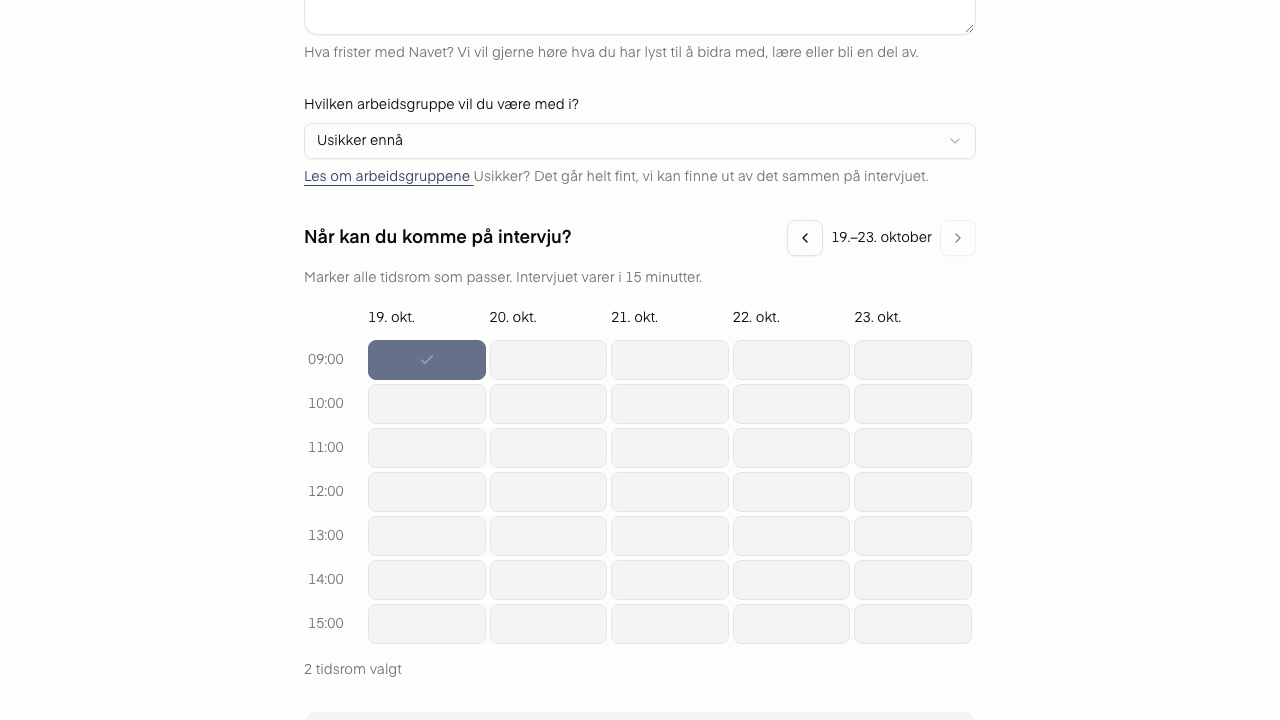
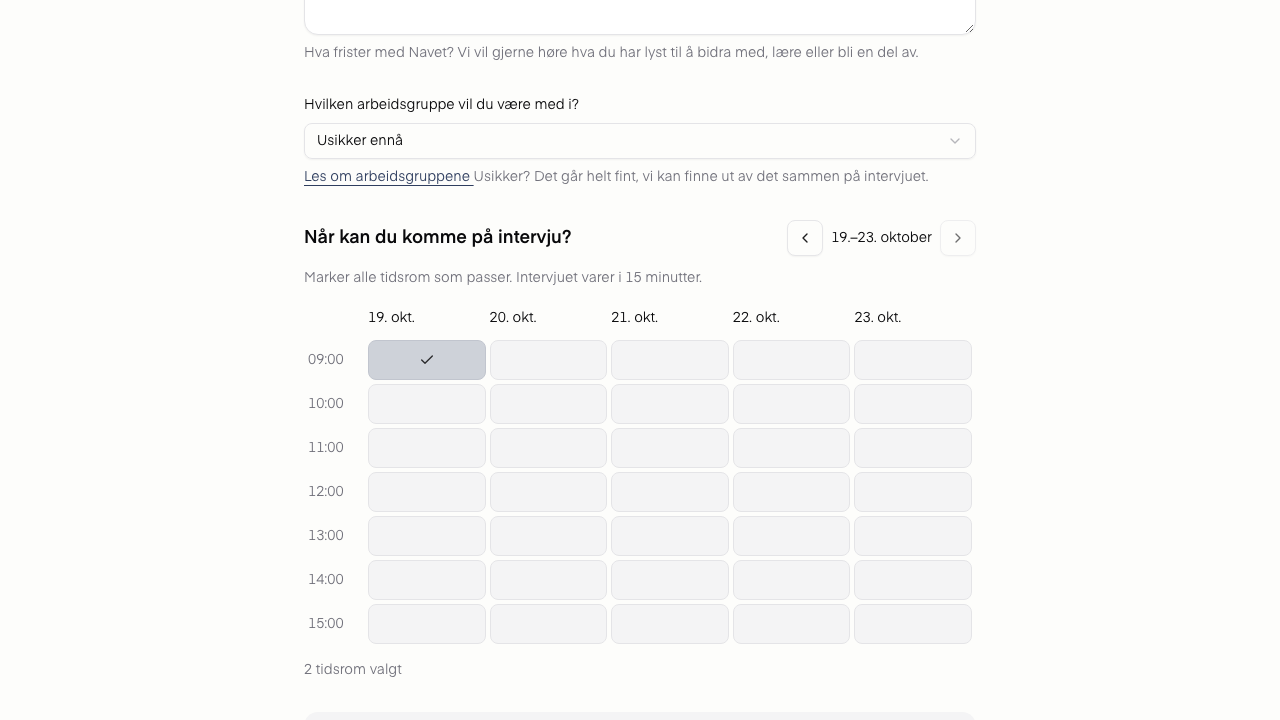
fix: preserve interviewer team size and clarify local preview

Changed region(s): [[0.2812, 0.4583, 0.4062, 0.55]]

diff --git a/e2e/admissions/board-settings.spec.ts b/e2e/admissions/board-settings.spec.ts
@@ -33,16 +33,26 @@ test.describe("admissions settings and close flow", () => {
 		await expect(updated.getByRole("checkbox", { name: "Aksel Nilsen" })).toBeChecked();
 	});
 
-	test("requires exactly two interviewers before saving settings", async ({ page }) => {
+	test("allows teams of three and requires at least two interviewers", async ({ page }) => {
 		await resetAdmissions("open");
 		await page.reload();
 		await page.getByRole("button", { name: "Innstillinger" }).click();
 		const settings = page.getByRole("dialog", { name: "Opptaksinnstillinger" });
 		const save = settings.getByRole("button", { name: "Lagre innstillinger" });
+		await expect(settings.getByRole("checkbox", { name: "Kristin Berg" })).toBeChecked();
+		await expect(settings.getByRole("checkbox", { name: "Daniel Holm" })).toBeChecked();
 		await settings.getByRole("checkbox", { name: "Aksel Nilsen" }).check();
-		await expect(save).toBeDisabled();
-		await settings.getByRole("checkbox", { name: "Daniel Holm" }).uncheck();
 		await expect(save).toBeEnabled();
+		await save.click();
+		await expect(settings).toBeHidden();
+		await page.getByRole("button", { name: "Innstillinger" }).click();
+		const updated = page.getByRole("dialog", { name: "Opptaksinnstillinger" });
+		await expect(updated.getByRole("checkbox", { name: "Aksel Nilsen" })).toBeChecked();
+		await expect(updated.getByRole("checkbox", { name: "Kristin Berg" })).toBeChecked();
+		await expect(updated.getByRole("checkbox", { name: "Daniel Holm" })).toBeChecked();
+		await updated.getByRole("checkbox", { name: "Daniel Holm" }).uncheck();
+		await updated.getByRole("checkbox", { name: "Kristin Berg" }).uncheck();
+		await expect(updated.getByRole("button", { name: "Lagre innstillinger" })).toBeDisabled();
 	});
 
 	test("keeps interviewers assigned to a published future interview", async ({ page }) => {

diff --git a/apps/hugin/src/app/admissions/application-preview.tsx b/apps/hugin/src/app/admissions/application-preview.tsx
@@ -67,7 +67,9 @@ export default function ApplicationPreview() {
 		);
 	return (
 		<div className="mx-auto max-w-2xl py-10 text-left">
-			<p className="mb-6 text-muted-foreground text-xs">Lokalt førsteutkast med testdata</p>
+			<p className="mb-6 text-muted-foreground text-xs">
+				Forhåndsvisning med testdata. Opplysningene blir ikke lagret eller sendt.
+			</p>
 			<h1 className="font-semibold text-3xl tracking-tight">
 				Bli med i Navet <span aria-hidden="true">👋</span>
 			</h1>
@@ -273,13 +275,8 @@ export default function ApplicationPreview() {
 				<div className="rounded-xl bg-muted p-5">
 					<h2 className="mb-3 flex items-center gap-2 font-semibold">
 						<ShieldCheck size={18} />
-						Opplysningene dine
+						Samtykke
 					</h2>
-					<p className="max-w-prose text-sm leading-relaxed">
-						Vi lagrer navn, e-post, studieprogram, studieår, søknadssvar og tilgjengelighet. Bare de
-						som gjennomfører opptaket har tilgang. Opptaksdata slettes når opptaket avsluttes,
-						senest 30. oktober 2026.
-					</p>
 					<form.Field name="consent">
 						{(field) => (
 							<label

diff --git a/e2e/admissions/student.spec.ts b/e2e/admissions/student.spec.ts
@@ -18,7 +18,10 @@ test("student can complete the local application preview", async ({ page }) => {
 		"01-application.png",
 		page.getByRole("heading", { name: "Bli med i Navet" }),
 	);
-	await expect(page.getByText("Lokalt førsteutkast med testdata")).toBeVisible();
+	await expect(
+		page.getByText("Forhåndsvisning med testdata. Opplysningene blir ikke lagret eller sendt."),
+	).toBeVisible();
+	await expect(page.getByText(/Vi lagrer navn|Opptaksdata slettes/)).toHaveCount(0);
 	await expect(page.getByRole("heading", { name: "Bli med i Navet" })).toBeVisible();
 	await expect(page.getByText(/hvor gammel|hvor du kommer fra/i)).toHaveCount(0);
 

diff --git a/apps/bifrost/src/components/admissions/settings-dialog.tsx b/apps/bifrost/src/components/admissions/settings-dialog.tsx
@@ -262,7 +262,7 @@ export function SettingsDialog({
 						)}
 					</form.Field>
 					<form.Subscribe
-						selector={(state) => state.isSubmitting || state.values.interviewerIds.length !== 2}
+					selector={(state) => state.isSubmitting || state.values.interviewerIds.length < 2}
 					>
 						{(disabled) => (
 							<Button type="submit" disabled={disabled}>
